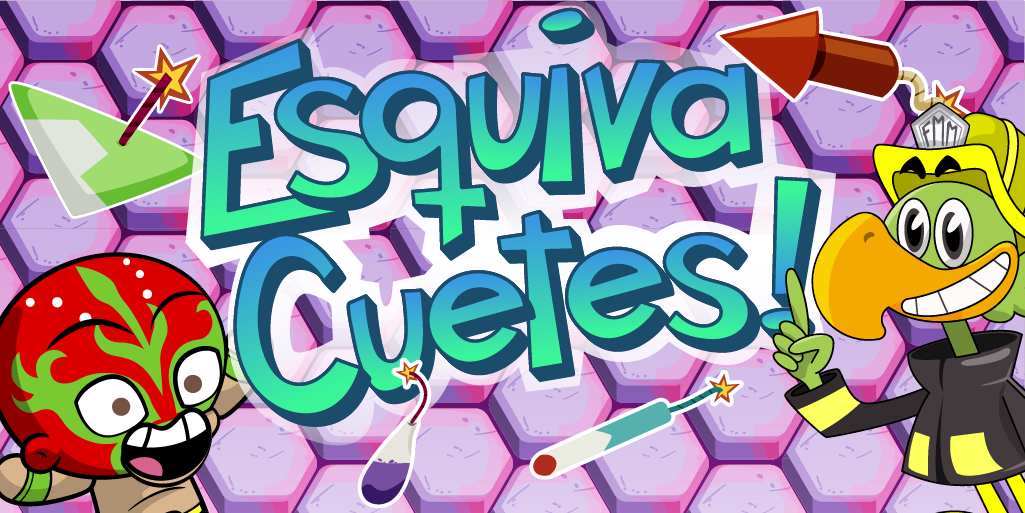
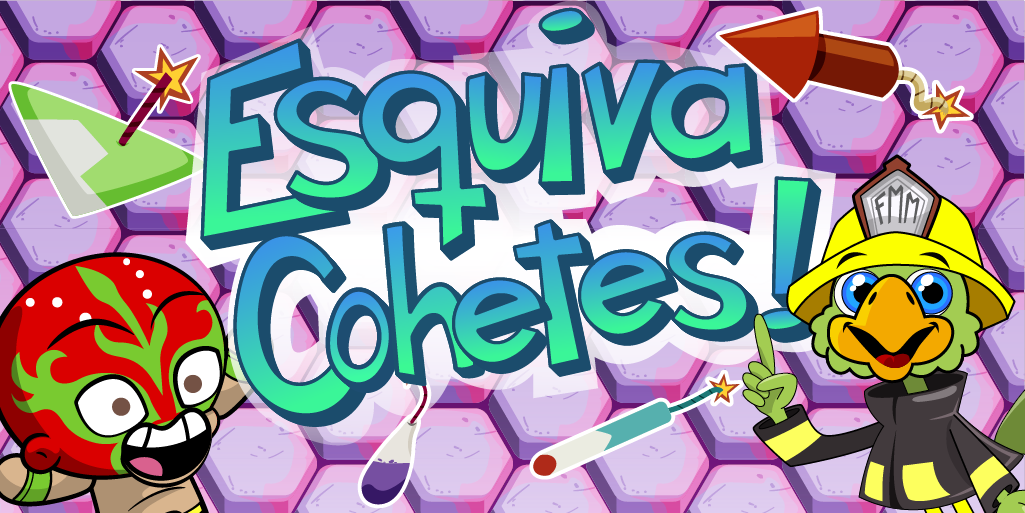
esquiva cohetes update

Changed region(s): [[0.281, 0.1871, 1.0, 1.0]]

diff --git a/nonrefactored/michoymau/esquivaCuetes/esquivaCuetesSite/index.html b/nonrefactored/michoymau/esquivaCuetes/esquivaCuetesSite/index.html
@@ -32,13 +32,13 @@
     <meta http-equiv="expires" content="Tue, 01 Jan 1980 1:00:00 GMT" />
     <meta http-equiv="pragma" content="no-cache" />
     <meta name="viewport" content="width=device-width, initial-scale=1.0, maximum-scale=1.0">
-    <meta property="og:url"				content="http://yogome.com" />
+    <meta property="og:url"				content="http://yogome.com/michoymau/esquivaCuetes/esquivaCuetesSite/" />
     <meta property="og:type"			content="article" />
-    <meta property="og:title"			content="Esquiva Cuetes" />
-    <meta property="og:image"			content="images/fbpost.png" />
+    <meta property="og:title"			content="Esquiva Cohetes" />
+    <meta property="og:image"			content="http://yogome.com/michoymau/esquivaCuetes/esquivaCuetesSite/images/fbpost.png" />
     <head>
         <title>Smart Games</title>
-        <link rel="stylesheet" type="text/css" href="../yogomeSkin/css/fonts.css">
+        <link rel="stylesheet" type="text/css" href="../../yogomeSkin/css/fonts.css">
         <link rel="stylesheet" type="text/css" href="css/main.css">
 
     </head>	
@@ -49,32 +49,32 @@
                 <div class="banner-game">
                     <div class="games-img">
                         <a href="http://yogo.me/WebGames_Epic" target="_blank">
-                        <img src="../yogomeSkin/images/epic_logo.png"/>
+                        <img src="../../yogomeSkin/images/epic_logo.png"/>
                         </a>
                     </div>
                     <div class="games-img">
                         <a href="http://yogo.me/WebGames_KA" target="_blank">
-                        <img src="../yogomeSkin/images/ka_logo.png" />
+                        <img src="../../yogomeSkin/images/ka_logo.png" />
                         </a>
                     </div>
                     <div class="games-img">
                         <a href="http://yogo.me/WebGames_KB" target="_blank">
-                        <img src="../yogomeSkin/images/kb_logo.png" />
+                        <img src="../../yogomeSkin/images/kb_logo.png" />
                         </a>
                     </div>
                     <div class="games-img">
                         <a href="http://yogo.me/WebGames_TT" target="_blank">
-                            <img  src="../yogomeSkin/images/tt_logo.png"/></a>
+                            <img  src="../../yogomeSkin/images/tt_logo.png"/></a>
                     </div>
                     <div class="games-img">
                         <a href="http://yogo.me/WebGames_KM" target="_blank">
-                            <img src="../yogomeSkin/images/km_logo.png"/></a>
+                            <img src="../../yogomeSkin/images/km_logo.png"/></a>
                     </div>
                 </div>
             </section>
             <div id="yogotars">
-                <img class="eagle" src="../yogomeSkin/images/eagle.png">
-                <img class="luna" src="../yogomeSkin/images/luna.png">
+                <img class="eagle" src="../../yogomeSkin/images/eagle.png">
+                <img class="luna" src="../../yogomeSkin/images/luna.png">
             </div>
             <div class="logo_sm">
                 <div class="banner-games">
@@ -83,17 +83,17 @@
                         <img class="logo-brand" src="images/oejr_logo_sm.png"/>
                         <div class="games-img">
                             <a href="http://yogo.me/WebGames_Epic" target="_blank">
-                            <img src="../yogomeSkin/images/epic_logo.png"/>
+                            <img src="../../yogomeSkin/images/epic_logo.png"/>
                             </a>
                         </div>
                         <div class="games-img">
                             <a href="http://yogo.me/WebGames_KB" target="_blank">
-                            <img src="../yogomeSkin/images/kb_logo.png" />
+                            <img src="../../yogomeSkin/images/kb_logo.png" />
                             </a>
                         </div>
                         <div class="games-img">
                             <a href="http://yogo.me/WebGames_TT" target="_blank">
-                            <img  src="../yogomeSkin/images/tt_logo.png" />
+                            <img  src="../../yogomeSkin/images/tt_logo.png" />
                             </a>
                         </div>
                     </div>
@@ -108,5 +108,5 @@
     </body>    
     <script src="js/config.js"></script>
 	
-    <script src="../yogomeSkin/js/desktop.js"></script>    
+    <script src="../../yogomeSkin/js/desktop.js"></script>    
 </html>

diff --git a/nonrefactored/michoymau/humo_enlacocina/humo_enlacocinaSite/index.html b/nonrefactored/michoymau/humo_enlacocina/humo_enlacocinaSite/index.html
@@ -32,13 +32,13 @@
     <meta http-equiv="expires" content="Tue, 01 Jan 1980 1:00:00 GMT" />
     <meta http-equiv="pragma" content="no-cache" />
     <meta name="viewport" content="width=device-width, initial-scale=1.0, maximum-scale=1.0">
-    <meta property="og:url"				content="http://yogome.com" />
+    <meta property="og:url"				content="http://yogome.com/michoymau/humo_enlacocina/humo_enlacocinaSite/" />
     <meta property="og:type"			content="article" />
     <meta property="og:title"			content="Humo en la cocina" />
-    <meta property="og:image"			content="images/fbpost.png" />
+    <meta property="og:image"			content="http://yogome.com/michoymau/humo_enlacocina/humo_enlacocinaSite/images/fbpost.png" />
     <head>
         <title>Smart Games</title>
-        <link rel="stylesheet" type="text/css" href="../yogomeSkin/css/fonts.css">
+        <link rel="stylesheet" type="text/css" href="../../yogomeSkin/css/fonts.css">
         <link rel="stylesheet" type="text/css" href="css/main.css">
 
     </head>	
@@ -49,32 +49,32 @@
                 <div class="banner-game">
                     <div class="games-img">
                         <a href="http://yogo.me/WebGames_Epic" target="_blank">
-                        <img src="../yogomeSkin/images/epic_logo.png"/>
+                        <img src="../../yogomeSkin/images/epic_logo.png"/>
                         </a>
                     </div>
                     <div class="games-img">
                         <a href="http://yogo.me/WebGames_KA" target="_blank">
-                        <img src="../yogomeSkin/images/ka_logo.png" />
+                        <img src="../../yogomeSkin/images/ka_logo.png" />
                         </a>
                     </div>
                     <div class="games-img">
                         <a href="http://yogo.me/WebGames_KB" target="_blank">
-                        <img src="../yogomeSkin/images/kb_logo.png" />
+                        <img src="../../yogomeSkin/images/kb_logo.png" />
                         </a>
                     </div>
                     <div class="games-img">
                         <a href="http://yogo.me/WebGames_TT" target="_blank">
-                            <img  src="../yogomeSkin/images/tt_logo.png"/></a>
+                            <img  src="../../yogomeSkin/images/tt_logo.png"/></a>
                     </div>
                     <div class="games-img">
                         <a href="http://yogo.me/WebGames_KM" target="_blank">
-                            <img src="../yogomeSkin/images/km_logo.png"/></a>
+                            <img src="../../yogomeSkin/images/km_logo.png"/></a>
                     </div>
                 </div>
             </section>
             <div id="yogotars">
-                <img class="eagle" src="../yogomeSkin/images/eagle.png">
-                <img class="luna" src="../yogomeSkin/images/luna.png">
+                <img class="eagle" src="../../yogomeSkin/images/eagle.png">
+                <img class="luna" src="../../yogomeSkin/images/luna.png">
             </div>
             <div class="logo_sm">
                 <div class="banner-games">
@@ -83,17 +83,17 @@
                         <img class="logo-brand" src="images/oejr_logo_sm.png"/>
                         <div class="games-img">
                             <a href="http://yogo.me/WebGames_Epic" target="_blank">
-                            <img src="../yogomeSkin/images/epic_logo.png"/>
+                            <img src="../../yogomeSkin/images/epic_logo.png"/>
                             </a>
                         </div>
                         <div class="games-img">
                             <a href="http://yogo.me/WebGames_KB" target="_blank">
-                            <img src="../yogomeSkin/images/kb_logo.png" />
+                            <img src="../../yogomeSkin/images/kb_logo.png" />
                             </a>
                         </div>
                         <div class="games-img">
                             <a href="http://yogo.me/WebGames_TT" target="_blank">
-                            <img  src="../yogomeSkin/images/tt_logo.png" />
+                            <img  src="../../yogomeSkin/images/tt_logo.png" />
                             </a>
                         </div>
                     </div>
@@ -108,5 +108,5 @@
     </body>    
     <script src="js/config.js"></script>
 	
-    <script src="../yogomeSkin/js/desktop.js"></script>    
+    <script src="../../yogomeSkin/js/desktop.js"></script>    
 </html>

diff --git a/nonrefactored/michoymau/esquivaCuetes/esquivaCuetesSite/yogome.html b/nonrefactored/michoymau/esquivaCuetes/esquivaCuetesSite/yogome.html
@@ -35,10 +35,10 @@
     <meta http-equiv="expires" content="Tue, 01 Jan 1980 1:00:00 GMT" />
     <meta http-equiv="pragma" content="no-cache" />
     <meta name="viewport" content="width=device-width, initial-scale=1.0, maximum-scale=1.0">
-    <meta property="og:url"				content="http://yogome.com/epic/minigames/dojoSite/" />
+    <meta property="og:url"				content="http://yogome.com/michoymau/cortoCircuito/cortoSite" />
     <meta property="og:type"			content="article" />
-    <meta property="og:title"			content="Addition Dojo" />
-    <meta property="og:image"			content="http://yogome.com/epic/minigames/dojoSite/images/fbpost.png" />
+    <meta property="og:title"			content="Corto Circuito" />
+    <meta property="og:image"			content="images/fbpost.png" />
     <head>
         <title>Yogome Games</title>
         <link rel="stylesheet" type="text/css" href="../../yogomeSkin/css/fonts.css">
@@ -52,32 +52,32 @@
                 <div class="banner-game">
                     <div class="games-img">
                         <a href="http://yogo.me/WebGames_Epic" target="_blank">
-                        <img src="../yogomeSkin/images/epic_logo.png"/>
+                        <img src="../../yogomeSkin/images/epic_logo.png"/>
                         </a>
                     </div>
                     <div class="games-img">
                         <a href="http://yogo.me/WebGames_KA" target="_blank">
-                        <img src="../yogomeSkin/images/ka_logo.png" />
+                        <img src="../../yogomeSkin/images/ka_logo.png" />
                         </a>
                     </div>
                     <div class="games-img">
                         <a href="http://yogo.me/WebGames_KB" target="_blank">
-                        <img src="../yogomeSkin/images/kb_logo.png" />
+                        <img src="../../yogomeSkin/images/kb_logo.png" />
                         </a>
                     </div>
                     <div class="games-img">
                         <a href="http://yogo.me/WebGames_TT" target="_blank">
-                            <img  src="../yogomeSkin/images/tt_logo.png"/></a>
+                            <img  src="../../yogomeSkin/images/tt_logo.png"/></a>
                     </div>
                     <div class="games-img">
                         <a href="http://yogo.me/WebGames_KM" target="_blank">
-                            <img src="../yogomeSkin/images/km_logo.png"/></a>
+                            <img src="../../yogomeSkin/images/km_logo.png"/></a>
                     </div>
                 </div>
             </section>
             <div id="yogotars">
-                <img class="eagle" src="../yogomeSkin/images/eagle.png">
-                <img class="luna" src="../yogomeSkin/images/luna.png">
+                <img class="eagle" src="../../yogomeSkin/images/eagle.png">
+                <img class="luna" src="../../yogomeSkin/images/luna.png">
             </div>
             <div class="logo_sm">
                 <div class="banner-games">
@@ -86,17 +86,17 @@
                         <img class="logo-brand" src="images/yogome_logo_sm.png"/>
                         <div class="games-img">
                             <a href="http://yogo.me/WebGames_Epic" target="_blank">
-                            <img src="../yogomeSkin/images/epic_logo.png"/>
+                            <img src="../../yogomeSkin/images/epic_logo.png"/>
                             </a>
                         </div>
                         <div class="games-img">
                             <a href="http://yogo.me/WebGames_KB" target="_blank">
-                            <img src="../yogomeSkin/images/kb_logo.png" />
+                            <img src="../../yogomeSkin/images/kb_logo.png" />
                             </a>
                         </div>
                         <div class="games-img">
                             <a href="http://yogo.me/WebGames_TT" target="_blank">
-                            <img  src="../yogomeSkin/images/tt_logo.png" />
+                            <img  src="../../yogomeSkin/images/tt_logo.png" />
                             </a>
                         </div>
                     </div>
@@ -110,5 +110,5 @@
         </div>
     </body>    
     <script src="js/config.js"></script>
-    <script src="../yogomeSkin/js/desktop.js"></script>    
+    <script src="../../yogomeSkin/js/desktop.js"></script>    
 </html>

diff --git a/nonrefactored/michoymau/humo_enlacocina/humo_enlacocinaSite/yogome.html b/nonrefactored/michoymau/humo_enlacocina/humo_enlacocinaSite/yogome.html
@@ -35,10 +35,10 @@
     <meta http-equiv="expires" content="Tue, 01 Jan 1980 1:00:00 GMT" />
     <meta http-equiv="pragma" content="no-cache" />
     <meta name="viewport" content="width=device-width, initial-scale=1.0, maximum-scale=1.0">
-    <meta property="og:url"				content="http://yogome.com/epic/minigames/dojoSite/" />
+    <meta property="og:url"				content="http://yogome.com/michoymau/cortoCircuito/cortoSite" />
     <meta property="og:type"			content="article" />
-    <meta property="og:title"			content="Addition Dojo" />
-    <meta property="og:image"			content="http://yogome.com/epic/minigames/dojoSite/images/fbpost.png" />
+    <meta property="og:title"			content="Corto Circuito" />
+    <meta property="og:image"			content="images/fbpost.png" />
     <head>
         <title>Yogome Games</title>
         <link rel="stylesheet" type="text/css" href="../../yogomeSkin/css/fonts.css">
@@ -52,32 +52,32 @@
                 <div class="banner-game">
                     <div class="games-img">
                         <a href="http://yogo.me/WebGames_Epic" target="_blank">
-                        <img src="../yogomeSkin/images/epic_logo.png"/>
+                        <img src="../../yogomeSkin/images/epic_logo.png"/>
                         </a>
                     </div>
                     <div class="games-img">
                         <a href="http://yogo.me/WebGames_KA" target="_blank">
-                        <img src="../yogomeSkin/images/ka_logo.png" />
+                        <img src="../../yogomeSkin/images/ka_logo.png" />
                         </a>
                     </div>
                     <div class="games-img">
                         <a href="http://yogo.me/WebGames_KB" target="_blank">
-                        <img src="../yogomeSkin/images/kb_logo.png" />
+                        <img src="../../yogomeSkin/images/kb_logo.png" />
                         </a>
                     </div>
                     <div class="games-img">
                         <a href="http://yogo.me/WebGames_TT" target="_blank">
-                            <img  src="../yogomeSkin/images/tt_logo.png"/></a>
+                            <img  src="../../yogomeSkin/images/tt_logo.png"/></a>
                     </div>
                     <div class="games-img">
                         <a href="http://yogo.me/WebGames_KM" target="_blank">
-                            <img src="../yogomeSkin/images/km_logo.png"/></a>
+                            <img src="../../yogomeSkin/images/km_logo.png"/></a>
                     </div>
                 </div>
             </section>
             <div id="yogotars">
-                <img class="eagle" src="../yogomeSkin/images/eagle.png">
-                <img class="luna" src="../yogomeSkin/images/luna.png">
+                <img class="eagle" src="../../yogomeSkin/images/eagle.png">
+                <img class="luna" src="../../yogomeSkin/images/luna.png">
             </div>
             <div class="logo_sm">
                 <div class="banner-games">
@@ -86,17 +86,17 @@
                         <img class="logo-brand" src="images/yogome_logo_sm.png"/>
                         <div class="games-img">
                             <a href="http://yogo.me/WebGames_Epic" target="_blank">
-                            <img src="../yogomeSkin/images/epic_logo.png"/>
+                            <img src="../../yogomeSkin/images/epic_logo.png"/>
                             </a>
                         </div>
                         <div class="games-img">
                             <a href="http://yogo.me/WebGames_KB" target="_blank">
-                            <img src="../yogomeSkin/images/kb_logo.png" />
+                            <img src="../../yogomeSkin/images/kb_logo.png" />
                             </a>
                         </div>
                         <div class="games-img">
                             <a href="http://yogo.me/WebGames_TT" target="_blank">
-                            <img  src="../yogomeSkin/images/tt_logo.png" />
+                            <img  src="../../yogomeSkin/images/tt_logo.png" />
                             </a>
                         </div>
                     </div>
@@ -110,5 +110,5 @@
         </div>
     </body>    
     <script src="js/config.js"></script>
-    <script src="../yogomeSkin/js/desktop.js"></script>    
+    <script src="../../yogomeSkin/js/desktop.js"></script>    
 </html>

diff --git a/nonrefactored/michoymau/humo_enlacocina/humo_enlacocinaSite/js/config.js b/nonrefactored/michoymau/humo_enlacocina/humo_enlacocinaSite/js/config.js
@@ -21,9 +21,9 @@ if(language == "EN"){
 window.amazing = {
     
     config: {
-        name: "Humo en la cocina",
+        name: "Corto Circuito",
         language: "es",
-        minigameUrl: "../humo_enlacocina/index.html?language=" + language,
+        minigameUrl: "../../humo_enlacocina/humo_enlacocina/index.html?language=ES",
         desktopUrl: "./desktop.html",
     }
 }

diff --git a/nonrefactored/michoymau/esquivaCuetes/esquivaCuetesSite/js/config.js b/nonrefactored/michoymau/esquivaCuetes/esquivaCuetesSite/js/config.js
@@ -21,9 +21,9 @@ if(language == "EN"){
 window.amazing = {
     
     config: {
-        name: "Esquiva Cuetes",
+        name: "Corto Circuito",
         language: "es",
-        minigameUrl: "../esquivaCuetes/index.html?language=" + language,
+        minigameUrl: "../../esquivaCuetes/esquivaCuetes/index.html?language=ES",
         desktopUrl: "./desktop.html",
     }
 }
